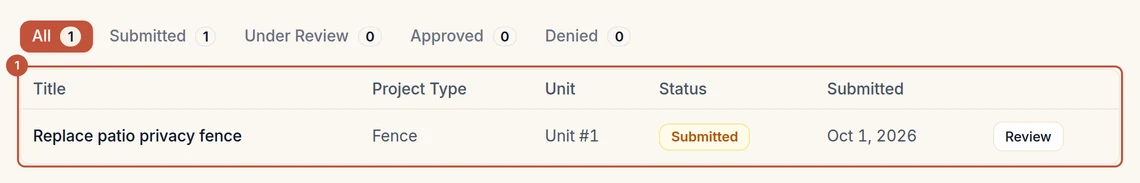
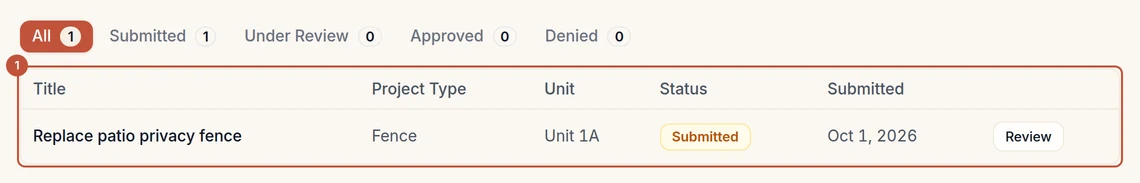
fix(units): violations and ARC show unit numbers, not database ids
The dashboard card, violations inbox, detail page and panel, ARC queue and
panel, resident ARC list and ARC unit picker all printed units.id, so
tenant.one (unit 1B) saw 'Unit 2'.

lib/units/unit-labels.ts withUnitLabels attaches unitLabel to rows in one
query. The paginated reads, the detail route and page, and the dashboard
query use it. Single-record getters stay unlabelled, because write paths
call them. formatUnitLabel (lib/units/format-unit-label.ts, client-safe)
replaces StaffViolationReportForm's private copy. The affected help
screenshots are recaptured.

Packages, move-in checklists and finance screens still print ids; that is a
separate change.

Claude-Session: https://claude.ai/code/session_01Bp1YK6RdFzExnTvXXkiTGW

diff --git a/apps/web/src/lib/units/__tests__/unit-labels.test.ts b/apps/web/src/lib/units/__tests__/unit-labels.test.ts
@@ -1,0 +1,41 @@
+import { describe, expect, it, vi } from 'vitest';
+import type { ScopedClient } from '@propertypro/db';
+
+vi.mock('@propertypro/db', () => ({ units: { id: 'id', unitNumber: 'unit_number', building: 'building' } }));
+vi.mock('@propertypro/db/filters', () => ({ inArray: (_c: unknown, ids: unknown) => ({ ids }) }));
+
+import { formatUnitLabel } from '../format-unit-label';
+import { withUnitLabels } from '../unit-labels';
+
+describe('formatUnitLabel', () => {
+  it('names the unit by its number, with the building when there is one', () => {
+    expect(formatUnitLabel({ unitNumber: '1B', building: null })).toBe('Unit 1B');
+    expect(formatUnitLabel({ unitNumber: '204', building: 'Bldg A' })).toBe('Bldg A • Unit 204');
+  });
+});
+
+describe('withUnitLabels', () => {
+  it('labels every row from one query, by number not database id', async () => {
+    const selectFrom = vi.fn(async (..._args: unknown[]) => [
+      { id: 2, unitNumber: '1B', building: null },
+      { id: 3, unitNumber: '2A', building: null },
+    ]);
+    const rows = await withUnitLabels({ selectFrom } as unknown as ScopedClient, [
+      { unitId: 2, id: 10 },
+      { unitId: 3, id: 11 },
+      { unitId: 2, id: 12 },
+    ]);
+    expect(rows.map((r) => r.unitLabel)).toEqual(['Unit 1B', 'Unit 2A', 'Unit 1B']);
+    expect(selectFrom).toHaveBeenCalledTimes(1);
+    expect(selectFrom.mock.calls[0]![2]).toEqual({ ids: [2, 3] });
+  });
+
+  it('falls back to the id for a unit it cannot find, and skips the query for no rows', async () => {
+    const selectFrom = vi.fn(async (..._args: unknown[]) => [] as unknown[]);
+    const scoped = { selectFrom } as unknown as ScopedClient;
+    expect((await withUnitLabels(scoped, [{ unitId: 9 }]))[0]!.unitLabel).toBe('Unit #9');
+    selectFrom.mockClear();
+    expect(await withUnitLabels(scoped, [])).toEqual([]);
+    expect(selectFrom).not.toHaveBeenCalled();
+  });
+});

diff --git a/apps/web/src/lib/services/violations-service.ts b/apps/web/src/lib/services/violations-service.ts
@@ -31,6 +31,7 @@ import { parseDateOnly } from '@/lib/finance/common';
 import { resolveTimezone } from '@/lib/utils/timezone';
 import { createNotificationsForEvent, sendNotification } from '@/lib/services/notification-service';
 import { listUnitResidentUserIds } from '@/lib/units/actor-units';
+import { withUnitLabels } from '@/lib/units/unit-labels';
 
 export interface ViolationRecord {
   [key: string]: unknown;
@@ -46,6 +47,8 @@ export interface ViolationRecord {
   noticeDate: string | null;
   hearingDate: Date | null;
   hearingLocation: string | null;
+  /** "Unit 1B"; set by the read paths (withUnitLabels), absent on writes. */
+  unitLabel?: string;
   resolutionDate: Date | null;
   resolutionNotes: string | null;
   createdAt: Date;
@@ -73,6 +76,8 @@ export interface ArcSubmissionRecord {
   id: number;
   communityId: number;
   unitId: number;
+  /** "Unit 1B"; set by the read paths (withUnitLabels), absent on writes. */
+  unitLabel?: string;
   submittedByUserId: string;
   title: string;
   description: string;
@@ -1245,7 +1250,7 @@ export async function paginateArcSubmissionsForCommunity(params: {
     { where },
   );
   return {
-    data: result.data.map(mapArcRow),
+    data: await withUnitLabels(scoped, result.data.map(mapArcRow)),
     pagination: result.pagination,
   };
 }
@@ -1338,7 +1343,7 @@ export async function paginateViolationsForCommunity(params: {
   );
 
   const mapped = result.data.map(mapViolationRow);
-  const hydrated = await hydrateReportedByRole(scoped, mapped);
+  const hydrated = await hydrateReportedByRole(scoped, await withUnitLabels(scoped, mapped));
   return {
     data: hydrated,
     pagination: result.pagination,

diff --git a/apps/web/src/components/violations/ArcSubmissionForm.tsx b/apps/web/src/components/violations/ArcSubmissionForm.tsx
@@ -53,14 +53,14 @@ const formSchema = z.object({
 
 interface ArcSubmissionFormProps {
   communityId: number;
-  /** The resident's own units. Exactly one means no picker. */
-  unitIds: number[];
+  /** The resident's own units, labelled ("Unit 1B"). Exactly one means no picker. */
+  units: Array<{ id: number; label: string }>;
   defaultUnitId: number | null;
 }
 
 export function ArcSubmissionForm({
   communityId,
-  unitIds,
+  units,
   defaultUnitId,
 }: ArcSubmissionFormProps) {
   const router = useRouter();
@@ -143,7 +143,7 @@ export function ArcSubmissionForm({
         </div>
       )}
 
-      {unitIds.length > 1 && (
+      {units.length > 1 && (
         <div>
           <label htmlFor="arc-unit" className="mb-1 block text-sm font-medium text-content-secondary">
             Unit
@@ -155,9 +155,9 @@ export function ArcSubmissionForm({
             className="w-full rounded-md border border-edge-strong px-3 py-2 text-sm focus:border-edge-focus focus-visible:outline-none focus-visible:ring-1 focus-visible:ring-focus"
           >
             <option value="">Select a unit</option>
-            {unitIds.map((id) => (
-              <option key={id} value={id}>
-                Unit #{id}
+            {units.map((unit) => (
+              <option key={unit.id} value={unit.id}>
+                {unit.label}
               </option>
             ))}
           </select>

diff --git a/apps/web/src/lib/units/unit-labels.ts b/apps/web/src/lib/units/unit-labels.ts
@@ -1,0 +1,33 @@
+import { units, type ScopedClient } from '@propertypro/db';
+import { inArray } from '@propertypro/db/filters';
+import { formatUnitLabel } from './format-unit-label';
+
+/**
+ * Attach `unitLabel` to rows that carry only a `unitId`, in one query. A unit
+ * that is gone falls back to `Unit #<id>` rather than failing the read.
+ */
+export async function withUnitLabels<T extends { unitId: number }>(
+  scoped: ScopedClient,
+  rows: readonly T[],
+): Promise<Array<T & { unitLabel: string }>> {
+  const ids = [...new Set(rows.map((row) => row.unitId))];
+  const unitRows =
+    ids.length === 0
+      ? []
+      : await scoped.selectFrom<{ id: number; unitNumber: string; building: string | null }>(
+          units,
+          { id: units.id, unitNumber: units.unitNumber, building: units.building },
+          inArray(units.id, ids),
+        );
+  const labels = new Map(unitRows.map((unit) => [unit.id, formatUnitLabel(unit)]));
+  return rows.map((row) => ({ ...row, unitLabel: labels.get(row.unitId) ?? `Unit #${row.unitId}` }));
+}
+
+/** withUnitLabels for one record. */
+export async function withUnitLabel<T extends { unitId: number }>(
+  scoped: ScopedClient,
+  row: T,
+): Promise<T & { unitLabel: string }> {
+  const [labelled] = await withUnitLabels(scoped, [row]);
+  return labelled!;
+}

diff --git a/apps/web/src/app/(authenticated)/arc-requests/new/page.tsx b/apps/web/src/app/(authenticated)/arc-requests/new/page.tsx
@@ -23,6 +23,7 @@ import { getActorUnitIds, isResidentRole } from '@/lib/violations/common';
 import { FeatureGate } from '@/components/billing/feature-gate';
 import { ArcSubmissionForm } from '@/components/violations/ArcSubmissionForm';
 import { PageHeader } from '@/components/shared/page-header';
+import { withUnitLabels } from '@/lib/units/unit-labels';
 
 interface PageProps {
   searchParams: Promise<SearchParams>;
@@ -58,6 +59,10 @@ export default async function NewArcRequestPage({ searchParams }: PageProps) {
 
   const scoped = createScopedClient(communityId);
   const unitIds = await getActorUnitIds(scoped, userId);
+  const units = (await withUnitLabels(scoped, unitIds.map((unitId) => ({ unitId })))).map((u) => ({
+    id: u.unitId,
+    label: u.unitLabel,
+  }));
 
   return (
     <FeatureGate feature="hasARC" communityId={communityId}>
@@ -88,7 +93,7 @@ export default async function NewArcRequestPage({ searchParams }: PageProps) {
         <div className="max-w-2xl">
           <ArcSubmissionForm
             communityId={communityId}
-            unitIds={unitIds}
+            units={units}
             defaultUnitId={unitIds.length === 1 ? (unitIds[0] as number) : null}
           />
         </div>

diff --git a/apps/web/src/components/violations/ViolationsAdminInbox.tsx b/apps/web/src/components/violations/ViolationsAdminInbox.tsx
@@ -235,7 +235,7 @@ export function ViolationsAdminInbox({
                 type="button"
                 onClick={() => setExpandedId(expandedId === v.id ? null : v.id)}
                 aria-expanded={expandedId === v.id}
-                aria-label={`Violation #${v.id} — ${CATEGORY_LABELS[v.category] ?? v.category}, Unit ${v.unitId}`}
+                aria-label={`Violation #${v.id} — ${CATEGORY_LABELS[v.category] ?? v.category}, ${v.unitLabel ?? `Unit #${v.unitId}`}`}
                 className={`w-full rounded-md border px-4 py-3 text-left transition-colors duration-quick ${
                   expandedId === v.id
                     ? 'border-interactive bg-interactive-subtle'
@@ -248,7 +248,7 @@ export function ViolationsAdminInbox({
                       #{v.id}
                     </span>
                     <span className="text-sm text-content-secondary">
-                      Unit {v.unitId}
+                      {v.unitLabel ?? `Unit #${v.unitId}`}
                     </span>
                     <span className="text-sm text-content-secondary">
                       {CATEGORY_LABELS[v.category] ?? v.category}

diff --git a/apps/web/src/lib/dashboard/dashboard-selectors.ts b/apps/web/src/lib/dashboard/dashboard-selectors.ts
@@ -74,6 +74,8 @@ export interface DashboardViolationSummary {
 export interface DashboardViolation {
   id: number;
   unitId: number;
+  /** "Unit 1B" when the query resolved it (withUnitLabels). */
+  unitLabel?: string;
   category: string;
   status: ViolationStatus;
   severity: ViolationSeverity;
@@ -98,6 +100,7 @@ export interface DashboardViolationStatusCount {
 export interface DashboardViolationRecentRow {
   id: number;
   unitId: number;
+  unitLabel?: string;
   category: string;
   status: string;
   severity: string;
@@ -123,6 +126,7 @@ export function buildViolationSummary(
     recentViolations: recentRows.map((row) => ({
       id: row.id,
       unitId: row.unitId,
+      ...(row.unitLabel ? { unitLabel: row.unitLabel } : {}),
       category: row.category,
       status: row.status as ViolationStatus,
       severity: row.severity as ViolationSeverity,

diff --git a/apps/web/src/components/violations/ArcSubmissionsTab.tsx b/apps/web/src/components/violations/ArcSubmissionsTab.tsx
@@ -50,7 +50,7 @@ function buildColumns(
       header: 'Unit',
       cell: ({ row }) => (
         <span className="text-sm text-content-secondary">
-          Unit #{row.original.unitId}
+          {row.original.unitLabel ?? `Unit #${row.original.unitId}`}
         </span>
       ),
     },
@@ -175,7 +175,7 @@ export function ArcSubmissionsTab({ communityId }: ArcSubmissionsTabProps) {
         open={selectedSubmission !== null}
         onClose={() => setSelectedSubmission(null)}
         title={selectedSubmission?.title ?? 'ARC Submission'}
-        description={`Unit #${selectedSubmission?.unitId ?? ''} - ${selectedSubmission?.projectType ?? ''}`}
+        description={`${selectedSubmission?.unitLabel ?? `Unit #${selectedSubmission?.unitId ?? ''}`} - ${selectedSubmission?.projectType ?? ''}`}
         width="md"
       >
         {selectedSubmission && (

diff --git a/apps/web/src/app/api/v1/arc/[id]/route.ts b/apps/web/src/app/api/v1/arc/[id]/route.ts
@@ -36,6 +36,7 @@ import { getArcSubmissionForCommunity } from '@/lib/services/violations-service'
 import { requireEntitledForAdminRead } from '@/lib/middleware/read-entitlement-guard';
 import { requirePermission } from '@/lib/db/access-control';
 import { arcDetailContract } from './contract';
+import { withUnitLabel } from '@/lib/units/unit-labels';
 
 export const GET = withErrorHandler(
   runRoute(arcDetailContract, async ({ params, query, req }) => {
@@ -53,6 +54,7 @@ export const GET = withErrorHandler(
       ? await getActorUnitIds(scoped, actorUserId)
       : undefined;
 
-    return await getArcSubmissionForCommunity(communityId, params.id, residentUnitIds);
+    const submission = await getArcSubmissionForCommunity(communityId, params.id, residentUnitIds);
+    return withUnitLabel(scoped, submission);
   }),
 );

diff --git a/apps/web/src/app/(authenticated)/violations/[id]/page.tsx b/apps/web/src/app/(authenticated)/violations/[id]/page.tsx
@@ -18,6 +18,7 @@ import { canActAsBoard } from '@/lib/db/access-control';
 import { getViolationForCommunity } from '@/lib/services/violations-service';
 import { ViolationDetailView } from '@/components/violations/ViolationDetailView';
 import { FeatureGate } from '@/components/billing/feature-gate';
+import { withUnitLabel } from '@/lib/units/unit-labels';
 
 interface PageProps {
   params: Promise<{ id: string }>;
@@ -60,7 +61,10 @@ export default async function ViolationDetailPage({ params, searchParams }: Page
 
   let violation;
   try {
-    violation = await getViolationForCommunity(communityId, violationId, allowedUnitIds);
+    violation = await withUnitLabel(
+      scoped,
+      await getViolationForCommunity(communityId, violationId, allowedUnitIds),
+    );
   } catch {
     notFound();
   }

diff --git a/apps/web/__tests__/dashboard/dashboard-sections.test.tsx b/apps/web/__tests__/dashboard/dashboard-sections.test.tsx
@@ -47,4 +47,19 @@ describe('dashboard sections', () => {
     expect(board).toContain('Community is in good standing');
     expect(board).toContain('/violations?communityId=42');
   });
+
+  it('labels a violation by its unit number, not its database id', () => {
+    const summary = {
+      total: 1,
+      byStatus: { noticed: 1 },
+      recentViolations: [
+        { id: 2, unitId: 2, unitLabel: 'Unit 1B', category: 'noise', status: 'noticed' as const, severity: 'minor' as const, createdAt: '2026-10-01T00:00:00.000Z' },
+      ],
+    };
+    const html = renderToStaticMarkup(
+      <DashboardViolations summary={summary} communityId={42} canReviewViolations={false} />,
+    );
+    expect(html).toContain('Unit 1B');
+    expect(html).not.toContain('Unit 2<');
+  });
 });

diff --git a/apps/web/src/components/violations/StaffViolationReportForm.tsx b/apps/web/src/components/violations/StaffViolationReportForm.tsx
@@ -13,6 +13,7 @@ import { createViolation } from '@/lib/api/violations';
 import { uploadEvidencePhoto } from '@/lib/violations/evidence-upload';
 import { useUnits } from '@/hooks/use-units';
 import type { ViolationSeverity } from '@propertypro/db';
+import { formatUnitLabel } from '@/lib/units/format-unit-label';
 
 const MAX_PHOTOS = 3;
 const MAX_PHOTO_SIZE_BYTES = 10 * 1024 * 1024;
@@ -53,10 +54,6 @@ interface UnitOption {
 }
 interface StaffViolationReportFormProps {
   communityId: number;
-}
-
-function formatUnitLabel(unit: UnitOption): string {
-  return unit.building ? `${unit.building} • Unit ${unit.unitNumber}` : `Unit ${unit.unitNumber}`;
 }
 
 export function StaffViolationReportForm({ communityId }: StaffViolationReportFormProps) {
